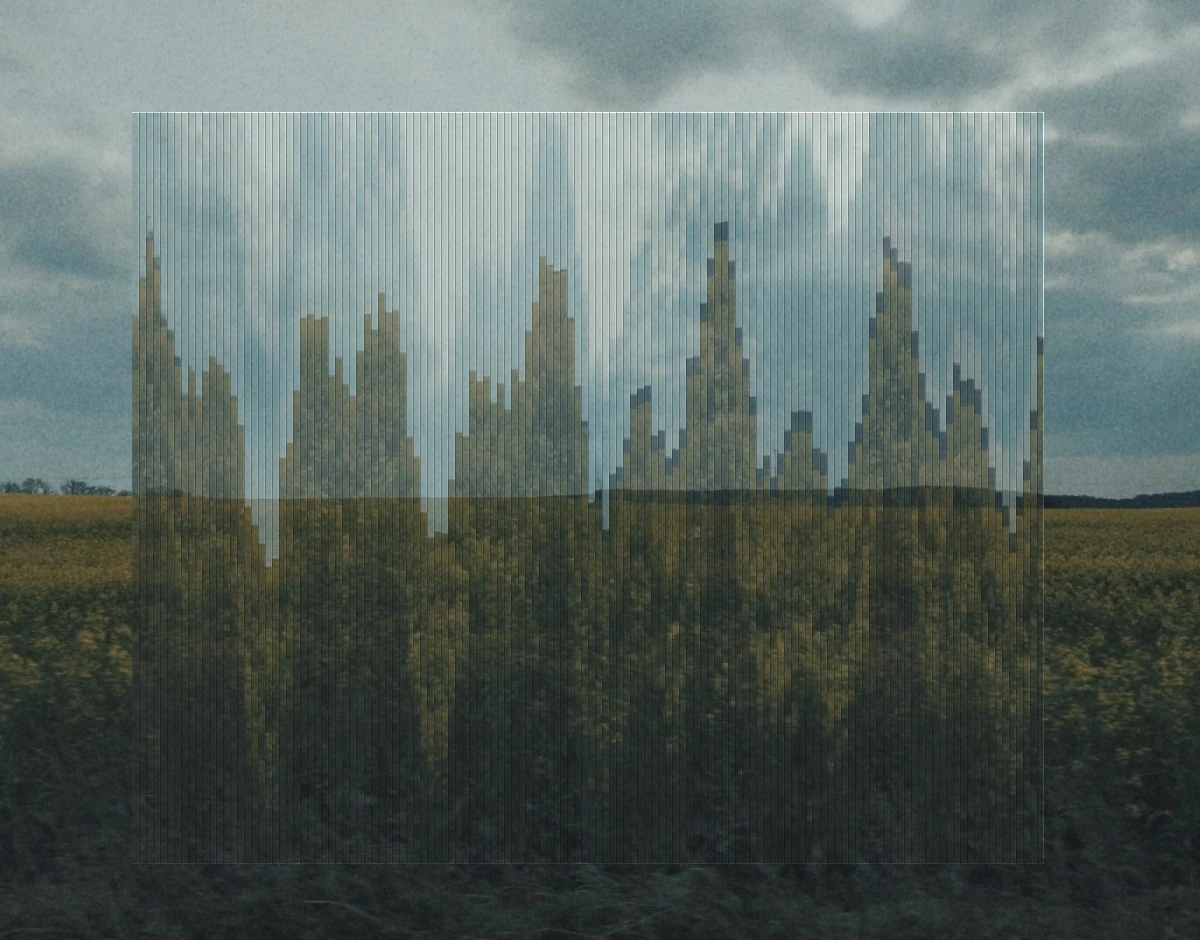
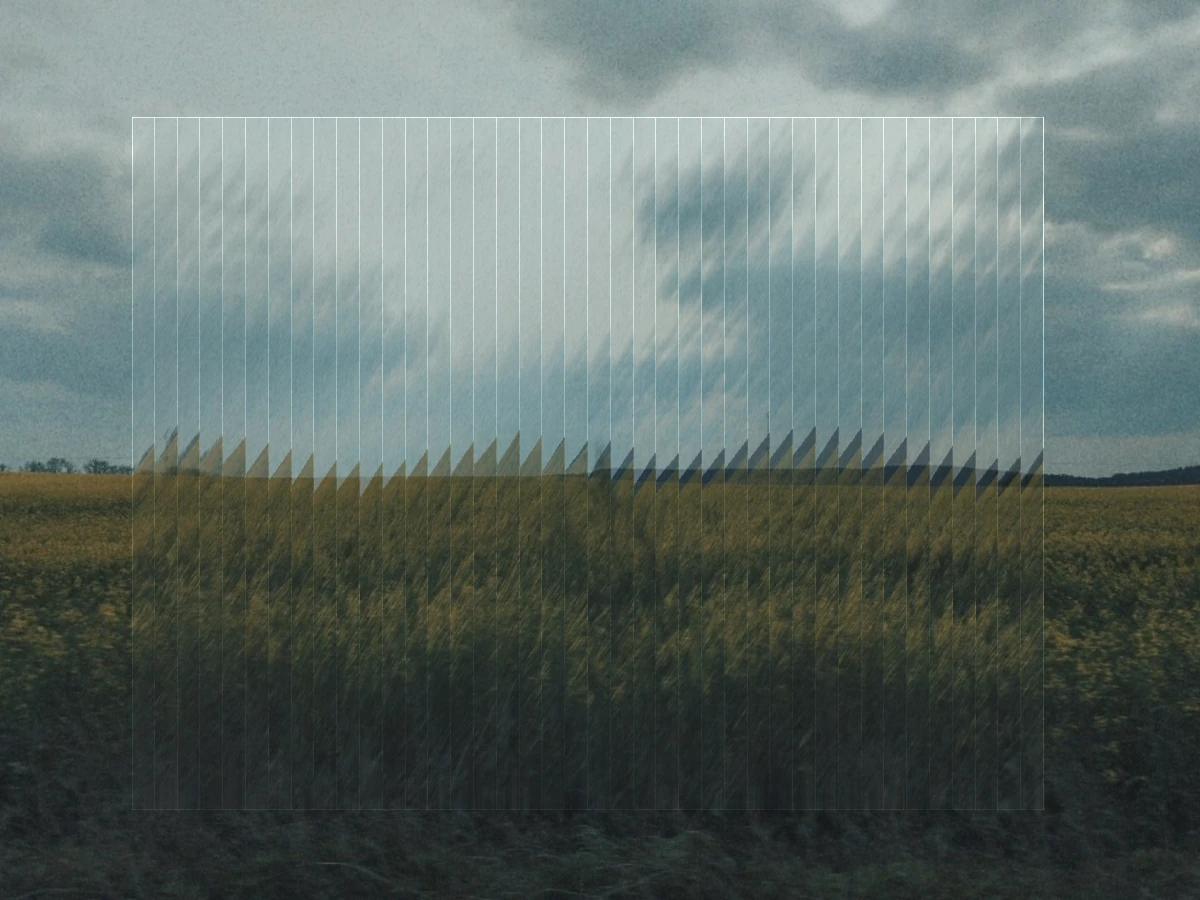
Glossy effect v3: match the reference precisely, per-slat vertical SHEAR (tooth height ~ slat width) makes a fine ~45deg sawtooth comb instead of tall spikes; semi-transparent pane, glass seams (regenerate timeline photos + scripts/glossy.py)

diff --git a/scripts/glossy.py b/scripts/glossy.py
@@ -1,36 +1,34 @@
 import numpy as np
 from PIL import Image, ImageOps
 
-def glossy_columns(src, out, target=(1200,940), n=130, reg=(0.11,0.12,0.87,0.92), seed=7, alpha=0.60, fmt="WEBP", quality=90):
-    """Reusable semi-transparent 'fluted glass' effect: a clean rectangular glass
-    pane over the photo, sliced into many thin vertical flutes that each refract a
-    vertically-stretched, upward-shifted copy of the scene. Internal horizontal
-    edges (ridge lines, horizons) become fine sawtooth spikes; the pane stays
-    see-through. Matches the reference glass-slat photo."""
+def glossy_columns(src, out, target=(1200,900), n=40, reg=(0.11,0.13,0.87,0.90), seed=7, alpha=0.62, fmt="WEBP", quality=90):
+    """Reusable 'sheared glass slats' effect matching the reference photo: a clean
+    semi-transparent glass pane over the image, sliced into vertical slats. Each
+    slat vertically SHEARS the scene (a linear ramp of vertical offset across the
+    slat width, tooth height ~ slat width) so horizontal edges become a fine ~45deg
+    sawtooth comb, not spikes. Bright glass seams between slats."""
     im = ImageOps.fit(Image.open(src).convert("RGB"), target, method=Image.LANCZOS, centering=(0.5,0.5))
     a = np.asarray(im).astype(np.float32); W,H = im.size
     x0,y0,x1,y1 = int(reg[0]*W),int(reg[1]*H),int(reg[2]*W),int(reg[3]*H)
-    rw,rh = x1-x0,y1-y0; cy = rh/2
+    rw,rh = x1-x0,y1-y0; cy = rh/2; sw = rw/n
     R = a[y0:y1,x0:x1].copy(); out_a = a.copy()
-    rng = np.random.default_rng(seed); sw = rw/n; yy = np.arange(rh).astype(np.float32)
+    rng = np.random.default_rng(seed); yy = np.arange(rh).astype(np.float32)
     for i in range(n):
-        xa=int(round(i*sw)); xb=int(round((i+1)*sw))
-        if xb<=xa: continue
-        t=i/n
-        dy=(0.11*rh)+(0.10*rh)*np.sin(2*np.pi*t*5+0.4)+(0.07*rh)*np.sin(2*np.pi*t*11+1.1)+(0.06*rh)*(rng.random()-0.5)
-        scale=1.16+0.14*(0.5+0.5*np.sin(2*np.pi*t*7+0.7))
-        src_y=(yy-cy)/scale+cy+dy
-        syi=np.round(src_y).astype(int); over=(syi>rh-1)
-        transformed=R[np.clip(syi,0,rh-1)][:,xa:xb,:]; orig=R[:,xa:xb,:]
-        bl=orig*(1-alpha)+transformed*alpha; bl[over]=orig[over]
-        bl[:,0,:]*=0.72
-        if xb-xa>1: bl[:,-1,:]=np.clip(bl[:,-1,:]*1.12,0,255)
+        xa=int(round(i*sw)); xb=int(round((i+1)*sw)); w=xb-xa
+        if w<=0: continue
+        base=(0.02*rh)+(0.02*rh)*np.sin(2*np.pi*(i/n)*3+0.3)+(0.01*rh)*(rng.random()-0.5)
+        ramp=w*(1.4+0.4*(rng.random()-0.5))
+        xf=(np.arange(w)+0.5)/w-0.5
+        off=base+ramp*xf
+        src_y=yy[:,None]+off[None,:]
+        syi=np.clip(np.round(src_y).astype(int),0,rh-1); cols=np.arange(xa,xb)
+        transformed=R[syi,cols[None,:],:]; orig=R[:,xa:xb,:]
+        bl=orig*(1-alpha)+transformed*alpha
+        bl[:,-1,:]=np.clip(bl[:,-1,:]*1.24,0,255)
         out_a[y0:y1,xa+x0:xb+x0,:]=bl
-    pane=out_a[y0:y1,x0:x1,:]
-    sheen=1.0+0.05*np.linspace(1,-1,rh)[:,None,None]
-    out_a[y0:y1,x0:x1,:]=np.clip(pane*sheen+6,0,255)
-    for xe in (x0,x1-1): out_a[y0:y1,xe,:]=np.clip(out_a[y0:y1,xe,:]*1.4,0,255)
-    for ye in (y0,y1-1): out_a[ye,x0:x1,:]=np.clip(out_a[ye,x0:x1,:]*1.4,0,255)
+    pane=out_a[y0:y1,x0:x1,:]; out_a[y0:y1,x0:x1,:]=np.clip(pane*(1.0+0.03*np.linspace(1,-1,rh)[:,None,None])+4,0,255)
+    for xe in (x0,x1-1): out_a[y0:y1,xe,:]=np.clip(out_a[y0:y1,xe,:]*1.3,0,255)
+    for ye in (y0,y1-1): out_a[ye,x0:x1,:]=np.clip(out_a[ye,x0:x1,:]*1.3,0,255)
     Image.fromarray(np.clip(out_a,0,255).astype("uint8")).save(out, fmt, quality=quality, method=6)
     return out
 
